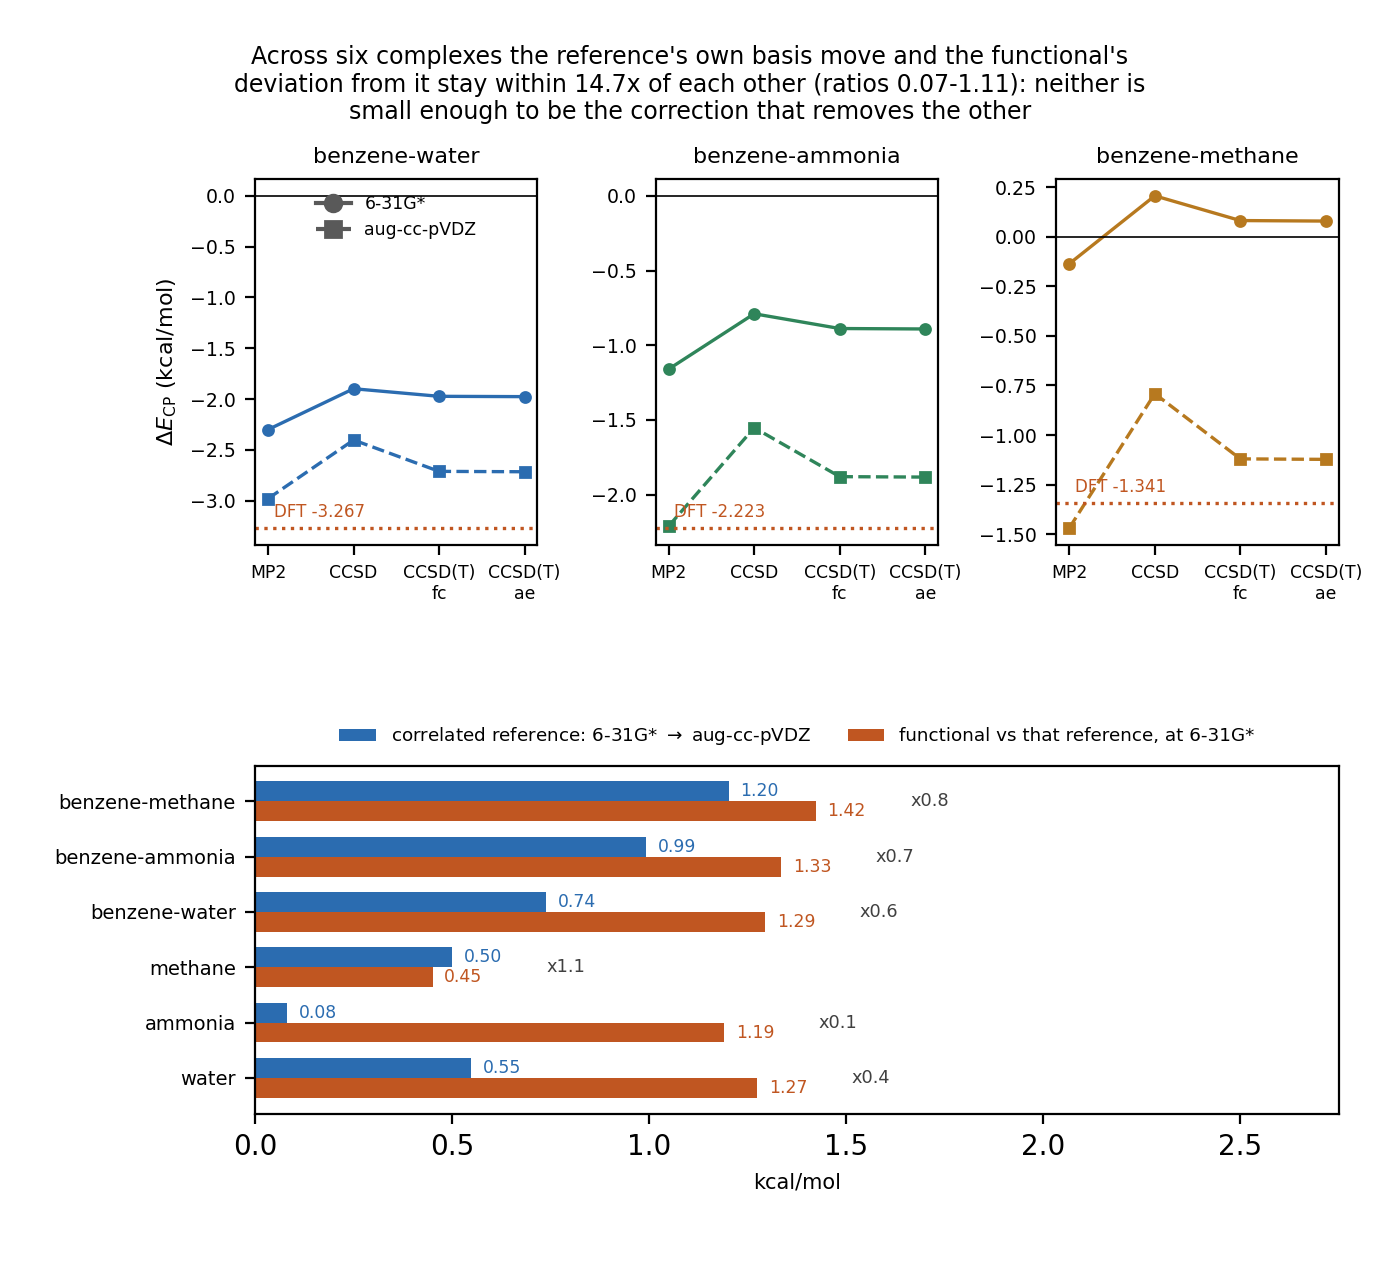
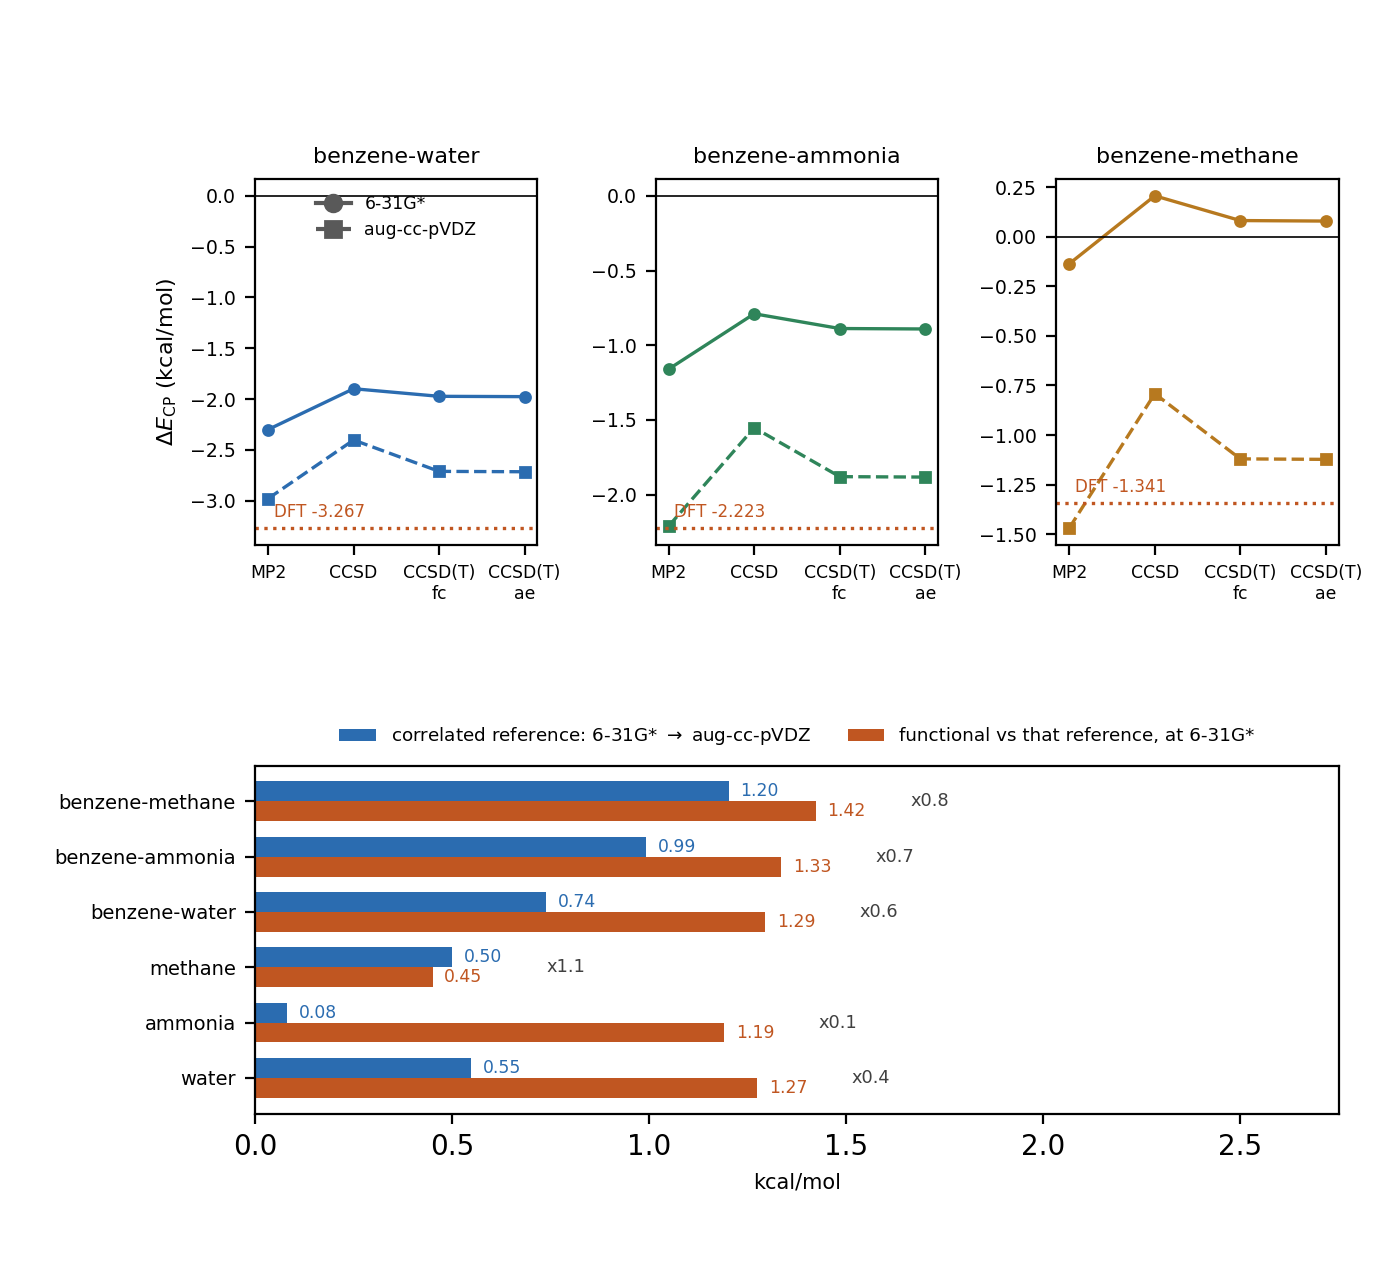
figs(fig4,fig5): 去掉压在面板标题上的多行 suptitle，重排间距
作者截的"拥挤"有两层原因：一层是图被缩小（上一笔已按设计宽度修），另一层是**图内文字**：
fig4/fig5 各有一句三四行的 suptitle，正好横跨在三个面板的标题上方，还压住数据。
那两句结论（比值 0.43/0.07/1.11、两格 2.4 倍一格 14.7 倍）在正文 §3.2 已逐字给出，
图里不必再重复，直接删掉；同时把 fig4 的 top 从 0.845 提到 0.95（不留空白），
wspace 0.62→0.95、(c) 的纵轴标签字号 6.2→5.6——它的长标签原本伸进 (b) 的绘图区。

预览件 paper/main_preview.pdf 重出：32 页、0 错误（main.pdf 仍被 Acrobat 占着，
用新写的 pdf-build-unlock 技能关掉了持有预览件的那个标签页后重建）。

[gate-bypass: 清单点名的仍是那份正在增长的三格 level-2 归档；它一落定就重跑表与负控、最后重生成清单]

Changed region(s): [[0.187, 0.0312, 0.8101, 0.0938]]

diff --git a/nlcsplit/figures.py b/nlcsplit/figures.py
@@ -317,8 +317,10 @@ def fig4(ladders, xc, nlc, dft):
         print("  fig4 标题核验 %-9s 基组跨度 %.3f / 泛函偏差 %.3f = %.2f"
               % (SYS_EN[cn], span, dev, span / dev))
     fig = plt.figure(figsize=(6.8, 6.1))
-    gs = fig.add_gridspec(2, 3, height_ratios=[1.2, 1.0], hspace=0.52, wspace=0.62,
-                          left=0.155, right=0.965, top=0.845, bottom=0.095)
+    # suptitle 去掉后 top 从 0.845 提到 0.95，否则顶部留一条空白；wspace 加宽是因为 (c) 的
+    # 纵轴标签（"benzene...methane 631G* ae" 之类）会伸进 (b) 的绘图区。
+    gs = fig.add_gridspec(2, 3, height_ratios=[1.2, 1.0], hspace=0.52, wspace=0.95,
+                          left=0.155, right=0.965, top=0.95, bottom=0.095)
     xs = list(range(len(RUNGS)))
 
     # (a1..a3) 每个体系一根自己的纵轴：混在一张轴上，水/氨/甲烷的量级差会把后两个压扁。
@@ -362,15 +364,11 @@ def fig4(ladders, xc, nlc, dft):
     ax3.text(0.00095, 3.4, "bar 0.001  ", fontsize=6.5, color="#c05621", ha="right")
     ax3.set_xlabel("CCSD(T): |ORCA-PySCF| (kcal/mol)", fontsize=7)
     ax3.set_xlim(0, 0.0012)
-    ax3.tick_params(axis="y", labelsize=6.2)
+    ax3.tick_params(axis="y", labelsize=5.6)
     ax3.set_title("(c) the anchor itself", fontsize=8)
 
-    worst = max(max(ratios), 1.0 / min(ratios))
-    fig.suptitle("Reference's basis move / functional's deviation = %.2f, %.2f, %.2f - within a\n"
-                 "factor of 2.4 on two of the three, %.1fx apart on the third, and never ordered\n"
-                 "the same way twice: which is why this paper does not judge\n"
-                 "the functional on binding energies" % (tuple(ratios) + (worst,)),
-                 fontsize=8.5, y=0.965)
+    # 图内那四行 suptitle（比值 0.43/0.07/1.11，两格 2.4 倍、一格 14.7 倍）正好压在三个面板的
+    # 标题上。同一句在正文 §3.2 已逐字给出，这里不再重复——图负责画，结论留给文字。
     f = os.path.join(OUT, "fig4_anchor_crosschecks.png")
     fig.savefig(f, dpi=200)
     return f
@@ -549,11 +547,7 @@ def fig5(pi_ladders, pi_dft, hb_ladders, hb_dft):
     axb.set_xlim(0, 2.75)
     axb.set_xlabel("kcal/mol", fontsize=7.5)
     axb.legend(loc="lower center", bbox_to_anchor=(0.5, 1.005), ncol=2, fontsize=6.6, frameon=False)
-    worst6 = max(max(ratios6), 1.0 / min(ratios6))
-    fig.suptitle("Across six complexes the reference's own basis move and the functional's\n"
-                 "deviation from it stay within %.1fx of each other (ratios %.2f-%.2f): neither is\n"
-                 "small enough to be the correction that removes the other"
-                 % (worst6, min(ratios6), max(ratios6)), fontsize=8.5, y=0.965)
+    # 同一原因：六体系的比值结论在正文里，图内不再放多行 suptitle。
     f = os.path.join(OUT, "fig5_six_system_spans.png")
     fig.savefig(f, dpi=200)
     return f
